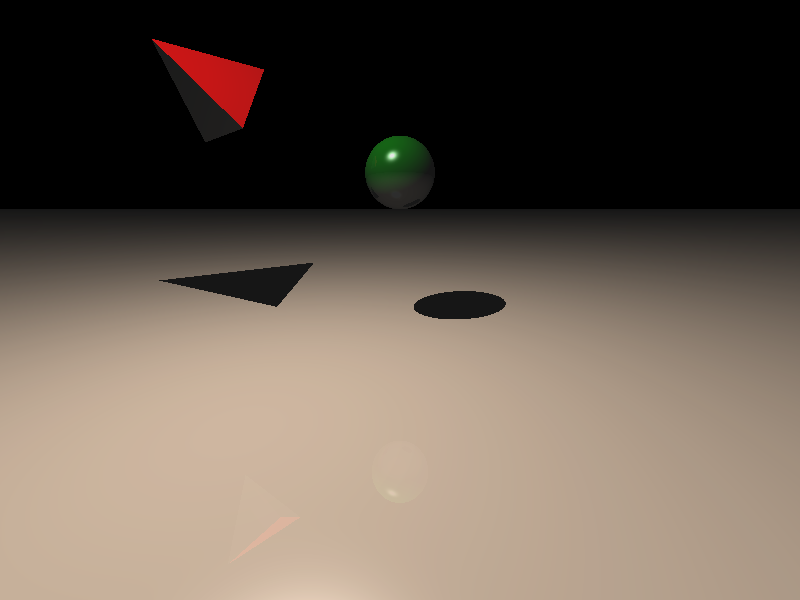
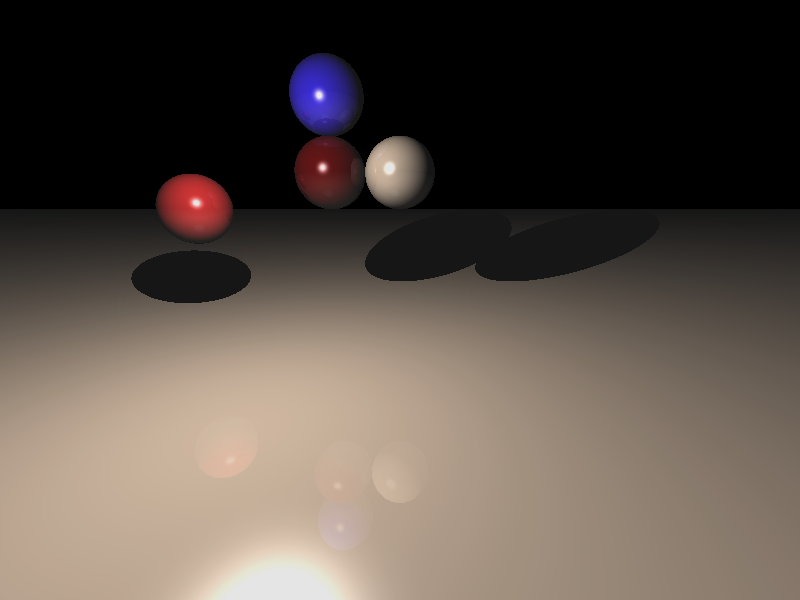
fix multithread render

diff --git a/renderer/ui/render_thread.py b/renderer/ui/render_thread.py
@@ -29,30 +29,34 @@ class RenderThread(QThread):
         config.render_stats["end_time"] = 0
         config.render_stats["processed_pixels"] = 0
         config.render_stats["total_pixels"] = self.width * self.height
-        
-        for y in range(self.height):
-            if not self.running:
-                break
-                
-            batch = [(x, y) for x in range(self.width)]
-            
-            pool = multiprocessing.Pool(processes=multiprocessing.cpu_count())
-            args = [(x, y, self.width, self.height, self.camera, self.objects, self.light) for x, y in batch]
-            results = pool.starmap(render_pixel_with_aa, args)
+
+        # Create the worker pool ONCE and reuse it for every row. Spawning a
+        # new pool per row re-launches all processes and re-pickles the scene
+        # on every scanline, which dominates render time (minutes of overhead).
+        pool = multiprocessing.Pool(processes=multiprocessing.cpu_count())
+        try:
+            for y in range(self.height):
+                if not self.running:
+                    break
+
+                args = [(x, y, self.width, self.height, self.camera,
+                         self.objects, self.light) for x in range(self.width)]
+                results = pool.starmap(render_pixel_with_aa, args)
+
+                for x in range(self.width):
+                    self.img_array[y, x] = results[x]
+                config.render_stats["processed_pixels"] += self.width
+
+                avg_rays_per_pixel = config.AA_SAMPLES * config.AA_SAMPLES * 5
+                config.render_stats["ray_count"] = \
+                    config.render_stats["processed_pixels"] * avg_rays_per_pixel
+
+                self.update_signal.emit(self.img_array.copy(), y, y + 1)
+                self.progress_signal.emit(config.render_stats["processed_pixels"])
+        finally:
             pool.close()
             pool.join()
-            
-            for x in range(self.width):
-                self.img_array[y, x] = results[x]
-            config.render_stats["processed_pixels"] += len(batch)
 
-            avg_rays_per_pixel = config.AA_SAMPLES * config.AA_SAMPLES * 5
-            config.render_stats["ray_count"] = config.render_stats["processed_pixels"] * avg_rays_per_pixel
-        
-            
-            self.update_signal.emit(self.img_array.copy(), y, y+1)
-            self.progress_signal.emit(config.render_stats["processed_pixels"])
-        
         config.render_stats["end_time"] = time.time()
         self.finished_signal.emit(self.img_array)
     